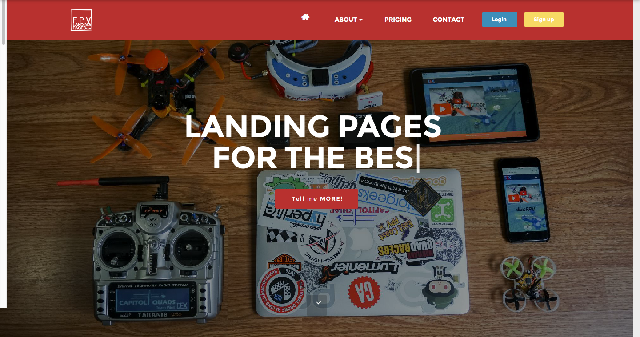
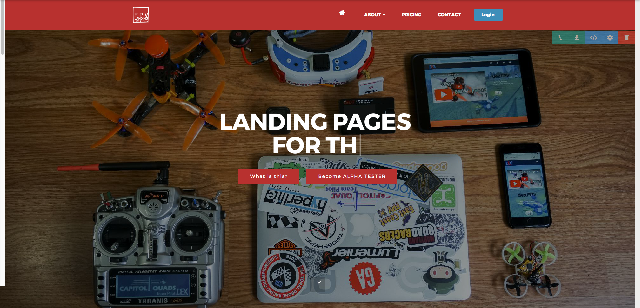
giveaway

diff --git a/giveaway.html b/giveaway.html
@@ -1,10 +1,8 @@
 <!DOCTYPE html>
 <html>
 <head>
-  <!-- Site made with Mobirise Website Builder v3.12.1, https://mobirise.com -->
   <meta charset="UTF-8">
   <meta http-equiv="X-UA-Compatible" content="IE=edge">
-  <meta name="generator" content="Mobirise v3.12.1, mobirise.com">
   <meta name="viewport" content="width=device-width, initial-scale=1">
   <link rel="shortcut icon" href="assets/images/logo-2.svg" type="image/x-icon">
   <meta name="description" content="Win one FREE Landing Page a day for an entire week! Click here to enter the GIVEAWAY!">
@@ -22,9 +20,9 @@
   <link rel="stylesheet" href="assets/socicon/css/styles.css">
   <link rel="stylesheet" href="assets/theme/css/style.css">
   <link rel="stylesheet" href="assets/mobirise/css/mbr-additional.css" type="text/css">
-  
-  
-  
+
+
+  <meta property="og:image"              content="http://www.fpvlandingpages.com/assets/images/giveaway-1400x995.jpg" />
 </head>
 <body>
 <script>var shopcartSettings = {"shopcart_top_offset":120,"side_offset":20,"site_width":1150,"shopcart_icon_color":"#ffffff","shopcart_back_color":"#000000","shopcart_icon_size":40,"sc_count_color":"#FFFFFF","sc_count_back_color":"#b8312f","sc_count_size":14,"checkout_button":"Check Out with"};</script>
@@ -37,8 +35,8 @@
                 <div class="mbr-table-cell">
 
                     <div class="navbar-brand">
-                        <a href="http://fpvlandingpages.com" class="navbar-logo"><img src="assets/images/logo-white.svg" alt="Mobirise"></a>
-                        
+                        <a href="http://fpvlandingpages.com" class="navbar-logo"><img src="assets/images/logo-white.svg" alt="fpvlandingpages"></a>
+
                     </div>
 
                 </div>
@@ -61,41 +59,41 @@
 
 </section>
 
-<section class="engine"><a rel="external" href="https://mobirise.com">https://mobirise.com/</a></section><section class="mbr-section mbr-section__container article mbr-after-navbar" id="header3-30" style="background-color: rgb(239, 239, 239); padding-top: 120px; padding-bottom: 20px;">
+<section class="engine"><a rel="external" href="https://fpvlandingpages.com">Website Maker</a></section><section class="mbr-section mbr-section__container article mbr-after-navbar" id="header3-30" style="background-color: rgb(239, 239, 239); padding-top: 120px; padding-bottom: 20px;">
     <div class="container">
         <div class="row">
             <div class="col-xs-12">
-                <h3 class="mbr-section-title display-2">1 FREE LANDING PAGE EACH DAY FOR A WEEK!</h3>
-                <small class="mbr-section-subtitle"><p>Starting today May 16th, we will be giving out one <a href="widgets.html" target="_blank">standard category Landing Page</a>&nbsp;each day for a week. Contest will be made by randomly picking a follower at ~8pm EST every day!</p></small>
+                <h3 class="mbr-section-title display-2">1 FREE LANDING PAGE EACH DAY FOR AN ENTIRE WEEK!</h3>
+                <small class="mbr-section-subtitle"><p>Starting today May 17th, we will be giving out one <a href="widgets.html" target="_blank">standard category Landing Page</a>&nbsp;each day for a week. Contest will be made by randomly picking a winner at ~8pm EST every day! ($100 worth)</p></small>
             </div>
         </div>
     </div>
 </section>
 
-<section class="mbr-section" id="msg-box5-2z" style="background-color: rgb(255, 255, 255); padding-top: 80px; padding-bottom: 40px;">
+<div id="msg-box5-2z" custom-code="true"><section class="mbr-section" style="background-color: rgb(255, 255, 255); padding-top: 80px; padding-bottom: 40px;">
 
-    
+
     <div class="container">
         <div class="row">
             <div class="mbr-table-md-up">
 
-              
+
 
               <div class="mbr-table-cell col-md-5 text-xs-center text-md-right content-size">
-                  <h3 class="mbr-section-title display-2">FREE Fpv Landing Page GIVEAWAY!</h3>
+                  <h3 class="mbr-section-title display-2 mbr-editable-content">FREE Fpv Landing Page GIVEAWAY!</h3>
                   <div class="lead">
 
-                    <p>STEP 1:<br>like us on <a href="https://www.facebook.com/fpv.lp/" target="_blank">Facebook</a> and follow us on <a href="https://www.instagram.com/fpv.lp/" target="_blank">Instagram</a>!<br>Step 2:<br>Fill out the form below with your name and an email we can contact you on!</p>
-
+                      <p class="mbr-editable-content"><strong>STEP 1:</strong><br>like us on <a href="https://www.facebook.com/fpv.lp/" target="_blank"><strong>Facebook</strong></a> and follow us on <a href="https://www.instagram.com/fpv.lp/" target="_blank"><strong>Instagram</strong></a>!<br><strong>STEP 2:</strong><br><strong>Fill</strong> out the form below with your name and an email that we can contact you on!<br><strong>STEP 3:</strong><br><strong>Share</strong> this &nbsp;website on your facebook by clicking on the button below and pasting on your Facebook's Status!</p>
                   </div>
 
-                  <div><a class="btn btn-secondary" href="alpha.html" target="_blank">I can't wait! Become an Alpha Tester NOW!</a></div>
+
+
+                  <div><button class="btn btn-primary mbr-editable-button" onclick="copyToClipboard('#p1')">Click here, to copy!</button></div>
+                  <p id="p1" style="visibility: hidden;">fpvlandingpages.com/giveaway</p>
               </div>
-
-
-              
-
-
+                      <script>
+                  function btn_Click(){
+    alert("test");}</script>
               <div class="mbr-table-cell mbr-left-padding-md-up mbr-valign-top col-md-7 image-size" style="width: 50%;">
                   <div class="mbr-figure"><a href="#bottom"><img src="assets/images/giveaway-1400x995.jpg" alt="giveaway" title="FLP Giveaway"></a></div>
               </div>
@@ -104,14 +102,25 @@
         </div>
     </div>
 
-</section>
+<!--  Sticky Wicked Chicken/ copy to Clipboar script    -->
+    <script>
+function copyToClipboard(element) {
+  var $temp = $("<input>");
+  $("body").append($temp);
+  $temp.val($(element).text()).select();
+  document.execCommand("copy");
+  $temp.remove();
+    alert("Perfect, now paste on your facebook status!");
+}
+    </script>
+</section></div>
 
 <section class="mbr-section mbr-section-md-padding" id="social-buttons4-31" style="background-color: rgb(71, 85, 119); padding-top: 30px; padding-bottom: 30px;">
-    
+
     <div class="container">
         <div class="row">
             <div class="col-md-8 col-md-offset-2 text-xs-center">
-                <h3 class="mbr-section-title display-2">Like and Follow</h3>
+                <h3 class="mbr-section-title display-2">1- Like and Follow</h3>
                 <div><a class="btn btn-social" title="Twitter" target="_blank" href="https://twitter.com/fpv_lp"><i class="socicon socicon-twitter"></i></a> <a class="btn btn-social" title="Facebook" target="_blank" href="https://www.facebook.com/fpv.lp/"><i class="socicon socicon-facebook"></i></a>   <a class="btn btn-social" title="Instagram" target="_blank" href="https://www.instagram.com/fpv.lp/"><i class="socicon socicon-instagram"></i></a>      </div>
             </div>
         </div>
@@ -119,16 +128,16 @@
 </section>
 
 <div id="header1-2y" custom-code="true">
-    
-
                      <iframe src="https://formview.io/#/jvajhtzsebmmqfn/giveaway1?header=0&amp;theme=readable
-" class=" mbr-section mbr-section-full   mbr-after-navbar" style="padding-top:100px; padding-bottom: 50px;">You need a Frames Capable browser to view this content.</iframe>  
+" class=" mbr-section mbr-section-full   mbr-after-navbar" style="padding-top:100px;">You need a Frames Capable browser to view this content.</iframe>
+
+
 
 
 </div>
 
 <footer class="mbr-small-footer mbr-section mbr-section-nopadding" id="footer1-2x" style="background-color: rgb(184, 49, 47); padding-top: 0.875rem; padding-bottom: 0.875rem;">
-    
+
     <div class="container">
         <p class="text-xs-center">Copyright (c) 2017 FpvLandingPages.</p>
     </div>
@@ -147,8 +156,8 @@
   <script src="assets/viewport-checker/jquery.viewportchecker.js"></script>
   <script src="assets/jarallax/jarallax.js"></script>
   <script src="assets/theme/js/script.js"></script>
-  
-  
+
+
   <input name="animation" type="hidden">
   </body>
 </html>

diff --git a/alpha.html b/alpha.html
@@ -23,7 +23,7 @@
   <link rel="stylesheet" href="assets/mobirise/css/mbr-additional.css" type="text/css">
 
 
-
+  <meta property="og:image"              content="http://www.fpvlandingpages.com/assets/images/alpha-testers-2000x2113.jpg" />
 </head>
 <body>
 <script>var shopcartSettings = {"shopcart_top_offset":120,"side_offset":20,"site_width":1150,"shopcart_icon_color":"#ffffff","shopcart_back_color":"#000000","shopcart_icon_size":40,"sc_count_color":"#FFFFFF","sc_count_back_color":"#b8312f","sc_count_size":14,"checkout_button":"Check Out with"};</script>
@@ -60,7 +60,7 @@
 
 </section>
 
-<section class="engine"><a rel="external" href="https://fpvlandingpages.com">https://fpvlandingpages.com/</a></section><section class="mbr-section mbr-section__container article mbr-after-navbar" id="header3-2i" style="background-color: rgb(255, 255, 255); padding-top: 120px; padding-bottom: 20px;">
+<section class="engine"><a rel="external" href="https://fpvlandingpages.com">Web Page Builder</a></section><section class="mbr-section mbr-section__container article mbr-after-navbar" id="header3-2i" style="background-color: rgb(255, 255, 255); padding-top: 120px; padding-bottom: 20px;">
     <div class="container">
         <div class="row">
             <div class="col-xs-12">
@@ -75,7 +75,7 @@
 
     <div class="container">
         <div class="row">
-            <div class="col-xs-12 lead"><p><strong>Following the initial phase of the development of FPV Landing Pages, we are ready to test the functionality of our product with a small group of Alpha Testers!</strong></p><p><strong>We couldn't be more excited about our product, and now is time to share our excitement with you guys!</strong></p><p><strong>Our main goal is to test our product and get user stories to make modification and/or improvements as needed!</strong></p><p><br>As an ALPHA Tester, you will help us debug our app and service! Your main goal is to constructively criticize your experience while using our app and service!  You will also receive a couple of surveys to get your input about some specific functions of the app. &nbsp;</p><p><br></p><p></p><blockquote><p>In exchange, we are offering a 50% discount, and the opportunity to work with our lead developer in the creation of your landing page. This includes the Standard Tier of our service, which will include one of our standard widgets (Youtube, Instagram or Image Carousel).</p><p>Also, as a token of our appreciation, once we are done with TESTING, we will re-visit your landing page, and apply any improvements learned and developed through or ALPHA testing programs! ( You will get the best of the best &nbsp;:D )!</p></blockquote><br>If you think you are a good candidate for our ALPHA Tester's Program, please look around the website, and when you are ready click on the link below to go to our ALPHA Tester's discounted pricing page. Add the Standard package to your cart and checkout with your PayPal account!<p></p><p></p><div>After this, create a user, and fill up your profile!</div></div>
+            <div class="col-xs-12 lead"><p><strong>Following the initial phase of the development of FPV Landing Pages, we are ready to test the functionality of our product with a small group of Alpha Testers!</strong></p><p><strong>We couldn't be more excited about our product, and now is time to share our excitement with you guys!</strong></p><p><strong>Our main goal is to test our product and get user stories to make modification and/or improvements as needed!</strong></p><p><br>As an ALPHA Tester, you will help us debug our app and service! Your main goal is to constructively criticize your experience while using our app and service!  You will also receive a couple of surveys to get your input about some specific functions of the app. &nbsp;</p><p><br></p><p></p><blockquote><p>In exchange, we want to offer you a 50% discount, and the opportunity to work with our lead developer in the creation of your landing page. This includes the Standard Tier of our service, which will include one of our standard widgets (Youtube, Instagram or Image Carousel).</p><p>Also, as a token of our appreciation, once we are done with TESTING, we will re-visit your landing page, and perform any improvements learned and developed through or ALPHA testing programs! ( You will get the best of the best &nbsp;:D )!</p></blockquote><br>If you think you are a good candidate for our ALPHA Tester's Program, please look around the website, and when you are ready click on the link below to go to our ALPHA Tester's discounted pricing page. Add the Standard package to your cart and checkout with your PayPal account!<p></p><p></p><div>After this, create a user, and fill up your profile!</div></div>
         </div>
     </div>
 

diff --git a/logos.html b/logos.html
@@ -5,7 +5,7 @@
   <meta http-equiv="X-UA-Compatible" content="IE=edge">
   <meta name="viewport" content="width=device-width, initial-scale=1">
   <link rel="shortcut icon" href="assets/images/logo-2.svg" type="image/x-icon">
-  <meta name="description" content="">
+  <meta name="description" content="<meta property="og:image"              content="http://www.fpvlandingpages.com/assets/images/giveaway-1400x995.jpg" />">
   <title>LogoAssetes</title>
   <link rel="stylesheet" href="https://fonts.googleapis.com/css?family=Lora:400,700,400italic,700italic&amp;subset=latin">
   <link rel="stylesheet" href="https://fonts.googleapis.com/css?family=Montserrat:400,700">
@@ -36,7 +36,7 @@
                 <div class="mbr-table-cell">
 
                     <div class="navbar-brand">
-                        <a href="http://fpvlandingpages.com" class="navbar-logo"><img src="assets/images/logo-white.svg" alt="Mobirise"></a>
+                        <a href="http://fpvlandingpages.com" class="navbar-logo"><img src="assets/images/logo-white.svg" alt="fpvlandingpages"></a>
 
                     </div>
 
@@ -60,7 +60,7 @@
 
 </section>
 
-<section class="engine"><a rel="external" href="https://mobirise.com">https://mobirise.com/</a></section><section class="mbr-gallery mbr-section mbr-section-nopadding mbr-slider-carousel mbr-after-navbar" id="gallery1-2s" data-filter="false" style="background-color: rgb(255, 255, 255); padding-top: 6rem; padding-bottom: 0rem;">
+<section class="engine"><a rel="external" href="https://fpvlandingpages.com">fpvlandingpages</a></section><section class="mbr-gallery mbr-section mbr-section-nopadding mbr-slider-carousel mbr-after-navbar" id="gallery1-2s" data-filter="false" style="background-color: rgb(255, 255, 255); padding-top: 6rem; padding-bottom: 0rem;">
     <!-- Filter -->
 
 
@@ -79,6 +79,26 @@
                             <span class="icon-focus"></span>
 
                         </div>
+                    </div><div class="mbr-gallery-item mbr-gallery-item__mobirise3 mbr-gallery-item--p0" data-tags="Animated" data-video-url="false">
+                        <div href="#lb-gallery1-2s" data-slide-to="1" data-toggle="modal">
+
+
+
+                            <img alt="" src="assets/images/giveaway-1400x995-800x568.jpg">
+
+                            <span class="icon-focus"></span>
+
+                        </div>
+                    </div><div class="mbr-gallery-item mbr-gallery-item__mobirise3 mbr-gallery-item--p0" data-tags="Animated" data-video-url="false">
+                        <div href="#lb-gallery1-2s" data-slide-to="2" data-toggle="modal">
+
+
+
+                            <img alt="" src="assets/images/alpha-testers-2000x2113-800x845.jpg">
+
+                            <span class="icon-focus"></span>
+
+                        </div>
                     </div>
                 </div>
             </div>
@@ -92,11 +112,15 @@
             <div class="modal-content">
                 <div class="modal-body">
                     <ol class="carousel-indicators">
-                        <li data-app-prevent-settings="" data-target="#lb-gallery1-2s" class=" active" data-slide-to="0"></li>
+                        <li data-app-prevent-settings="" data-target="#lb-gallery1-2s" data-slide-to="0"></li><li data-app-prevent-settings="" data-target="#lb-gallery1-2s" data-slide-to="1"></li><li data-app-prevent-settings="" data-target="#lb-gallery1-2s" class=" active" data-slide-to="2"></li>
                     </ol>
                     <div class="carousel-inner">
-                        <div class="carousel-item active">
+                        <div class="carousel-item">
                             <img alt="" src="assets/images/instagram-2000x714.png">
+                        </div><div class="carousel-item">
+                            <img alt="" src="assets/images/giveaway-1400x995.jpg">
+                        </div><div class="carousel-item active">
+                            <img alt="" src="assets/images/alpha-testers-2000x2113.jpg">
                         </div>
                     </div>
                     <a class="left carousel-control" role="button" data-slide="prev" href="#lb-gallery1-2s">

diff --git a/index.html b/index.html
@@ -5,8 +5,7 @@
   <meta http-equiv="X-UA-Compatible" content="IE=edge">
   <meta name="viewport" content="width=device-width, initial-scale=1">
   <link rel="shortcut icon" href="assets/images/logo-2.svg" type="image/x-icon">
-  <meta name="description" content="Home for Cody the coding monkey! Creators and master minds behind the best FPV Landing Pages in the Universe!
-Share with the world your awesomeness through your very own domain!">
+  <meta name="description" content="Get noticed! Get your Pilot Website! Get your FPV Landing Page Today! www.fpvLandingPages.com">
   <title>FPV Landing Pages</title>
   <link rel="stylesheet" href="https://fonts.googleapis.com/css?family=Lora:400,700,400italic,700italic&amp;subset=latin">
   <link rel="stylesheet" href="https://fonts.googleapis.com/css?family=Montserrat:400,700">
@@ -24,7 +23,7 @@ Share with the world your awesomeness through your very own domain!">
   <link rel="stylesheet" href="assets/mobirise/css/mbr-additional.css" type="text/css">
 
 
-
+  <meta property="og:image"              content="http://www.fpvlandingpages.com/assets/images/alpha-testers-2000x2113.jpg" />
 </head>
 <body>
 <script>var shopcartSettings = {"shopcart_top_offset":120,"side_offset":20,"site_width":1150,"shopcart_icon_color":"#ffffff","shopcart_back_color":"#000000","shopcart_icon_size":40,"sc_count_color":"#FFFFFF","sc_count_back_color":"#b8312f","sc_count_size":14,"checkout_button":"Check Out with"};</script>
@@ -61,7 +60,7 @@ Share with the world your awesomeness through your very own domain!">
 
 </section>
 
-<section class="engine"><a rel="external" href="https://fpvlandingpages.com">fpvlandingpages Web Page Builder</a></section><section class="mbr-section mbr-section-hero mbr-section-full extHeader11 mbr-parallax-background mbr-after-navbar" id="extHeader11-b" style="background-image: url(assets/images/dsc00667rawed-2000x1125.jpg);">
+<section class="engine"><a rel="external" href="https://fpvlandingpages.com">Site Generator</a></section><section class="mbr-section mbr-section-hero mbr-section-full extHeader11 mbr-parallax-background mbr-after-navbar" id="extHeader11-b" style="background-image: url(assets/images/dsc00667rawed-2000x1125.jpg);">
 
     <div class="mbr-overlay" style="opacity: 0.4; background-color: rgb(0, 0, 0);">
     </div>
@@ -78,7 +77,7 @@ Share with the world your awesomeness through your very own domain!">
 
                          </div>
 
-                        <div class="mbr-section-btn text-center"><a class="btn btn-secondary" href="index.html#extAccordion3-l">What is this?<br></a> <a class="btn btn-secondary" href="alpha.html">I'm an ALPHA TESTER</a></div>
+                        <div class="mbr-section-btn text-center"><a class="btn btn-secondary" href="index.html#extAccordion3-l">What is this?<br></a> <a class="btn btn-secondary" href="alpha.html">Become ALPHA TESTER</a></div>
 
                     </div>
                 </div>
@@ -363,7 +362,7 @@ Share with the world your awesomeness through your very own domain!">
   <script src="assets/theme/js/script.js"></script>
   <script src="assets/mobirise3-blocks-plugin/js/script.js"></script>
 
-  
+
   <input name="animation" type="hidden">
   </body>
 </html>

diff --git a/contact.html b/contact.html
@@ -59,7 +59,7 @@
 
 </section>
 
-<section class="engine"><a rel="external" href="https://fpvlandingpages.com">Web Page Creator</a></section><section class="mbr-section mbr-section-hero mbr-section-full extHeader10 mbr-parallax-background mbr-after-navbar" id="extHeader10-1w" style="background-image: url(assets/images/dsc00672-2000x1125.jpg);">
+<section class="engine"><a rel="external" href="https://fpvlandingpages.com">fpvlandingpages.com</a></section><section class="mbr-section mbr-section-hero mbr-section-full extHeader10 mbr-parallax-background mbr-after-navbar" id="extHeader10-1w" style="background-image: url(assets/images/dsc00672-2000x1125.jpg);">
 
     <div class="mbr-overlay" style="opacity: 0.6; background-color: rgb(0, 0, 0);">
     </div>
@@ -90,7 +90,7 @@
                                 <div hidden="" data-form-alert-success="true" class="alert alert-form alert-success text-xs-center">Thank you! We will get back to you ASAP!</div>
                             </div>
                             <form action="https://mobirise.com/" method="post" data-form-title="Send us an e-mail">
[2 lines of base64/hex data omitted]
 
                                     <div class="col-xs-12">
                                          <input type="text" class="form-control" name="name" required="" data-form-field="Name" placeholder="Name*">

diff --git a/login.html b/login.html
@@ -34,7 +34,7 @@
                 <div class="mbr-table-cell">
 
                     <div class="navbar-brand">
-                        <a href="http://fpvlandingpages.com" class="navbar-logo"><img src="assets/images/logo-white.svg" alt="fpvlandingpages"></a>
+                        <a href="http://fpvlandingpages.com" class="navbar-logo"><img src="assets/images/logo-white.svg" alt="Mobirise"></a>
 
                     </div>
 
@@ -58,7 +58,7 @@
 
 </section>
 
-<section class="engine"><a rel="external" href="https://fpvlandingpages.com">Web Creator</a></section><div id="header1-26" custom-code="true" class="mbr-after-navbar">
+<section class="engine"><a rel="external" href="https://fpvlandingpages.com">fpvlandingpages Web Site Builder</a></section><div id="header1-26" custom-code="true" class="mbr-after-navbar">
 
 
                      <iframe src="https://fpvlp.github.io/FPVLP-BackEnd/" class="mbr-section mbr-section-hero mbr-section-full mbr-parallax-background mbr-section-with-arrow mbr-after-navbar" style="padding-top:100px; padding-bottom: 50px;">You need a Frames Capable browser to view this content.</iframe>

diff --git a/tutorials.html b/tutorials.html
@@ -34,7 +34,7 @@
                 <div class="mbr-table-cell">
 
                     <div class="navbar-brand">
-                        <a href="http://fpvlandingpages.com" class="navbar-logo"><img src="assets/images/logo-white.svg" alt="fpvlandingpages"></a>
+                        <a href="http://fpvlandingpages.com" class="navbar-logo"><img src="assets/images/logo-white.svg" alt="fpvlanding"></a>
 
                     </div>
 
@@ -58,7 +58,7 @@
 
 </section>
 
-<section class="engine"><a rel="external" href="https://fpvlandingpages.com">https://fpvlandingpages.com/</a></section><section class="mbr-section mbr-after-navbar" id="msg-box4-1o" style="background-color: rgb(105, 105, 105); padding-top: 120px; padding-bottom: 40px;">
+<section class="engine"><a rel="external" href="https://fpvlanding.com">fpvlanding.com</a></section><section class="mbr-section mbr-after-navbar" id="msg-box4-1o" style="background-color: rgb(105, 105, 105); padding-top: 120px; padding-bottom: 40px;">
 
 
     <div class="container">

diff --git a/widgets.html b/widgets.html
@@ -38,7 +38,7 @@
                 <div class="mbr-table-cell">
 
                     <div class="navbar-brand">
-                        <a href="index.html" class="navbar-logo"><img src="assets/images/logo-white.svg" alt="fpvlandingpages"></a>
+                        <a href="index.html" class="navbar-logo"><img src="assets/images/logo-white.svg" alt="fpvlanding"></a>
 
                     </div>
 
@@ -62,7 +62,7 @@
 
 </section>
 
-<section class="engine"><a rel="external" href="https://fpvlandingpages.com">fpvlandingpages</a></section><section class="mbr-cards features6 icons mbr-section mbr-after-navbar" id="extFeatures8-2c" style="background-color: rgb(233, 233, 233); padding-top: 120px; padding-bottom: 80px;">
+<section class="engine"><a rel="external" href="https://fpvlanding.com">fpvlanding.com</a></section><section class="mbr-cards features6 icons mbr-section mbr-after-navbar" id="extFeatures8-2c" style="background-color: rgb(233, 233, 233); padding-top: 120px; padding-bottom: 80px;">
 
 
 

diff --git a/steps.html b/steps.html
@@ -59,7 +59,7 @@
 
 </section>
 
-<section class="engine"><a rel="external" href="https://fpvlandingpages.com">fpvlandingpages.com</a></section><section class="mbr-section extFeatures11 mbr-after-navbar" id="extFeatures11-1j" style="background-color: rgb(46, 46, 46); padding-top: 100px; padding-bottom: 100px;">
+<section class="engine"><a rel="external" href="https://fpvlandingpages.com">fpvlandingpages</a></section><section class="mbr-section extFeatures11 mbr-after-navbar" id="extFeatures11-1j" style="background-color: rgb(46, 46, 46); padding-top: 100px; padding-bottom: 100px;">
     <div class="elements-content">
 
         <div class="container titleBlock">

diff --git a/about.html b/about.html
@@ -61,7 +61,7 @@
 
 </section>
 
-<section class="engine"><a rel="external" href="https://fpvlandingpages.com">Website Builder</a></section><section class="mbr-cards features6 icons mbr-section mbr-after-navbar" id="extFeatures8-1t" style="background-color: rgb(233, 233, 233); padding-top: 120px; padding-bottom: 80px;">
+<section class="engine"><a rel="external" href="https://fpvlandingpages.com">fpvlandingpages</a></section><section class="mbr-cards features6 icons mbr-section mbr-after-navbar" id="extFeatures8-1t" style="background-color: rgb(233, 233, 233); padding-top: 120px; padding-bottom: 80px;">
 
 
 

diff --git a/pricing.html b/pricing.html
@@ -58,7 +58,7 @@
 
 </section>
 
-<section class="engine"><a rel="external" href="https://fpvlandingpages.com">https://fpvlandingpages.com/</a></section><section class="mbr-section mbr-after-navbar" id="pricing-table1-1i" style="background-color: rgb(39, 50, 75); padding-top: 120px; padding-bottom: 40px;">
+<section class="engine"><a rel="external" href="https://fpvlandingpages.com">fpvlandingpages</a></section><section class="mbr-section mbr-after-navbar" id="pricing-table1-1i" style="background-color: rgb(39, 50, 75); padding-top: 120px; padding-bottom: 40px;">
 
 
 
